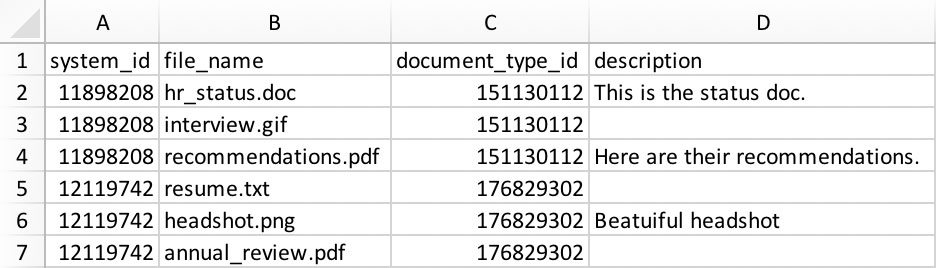
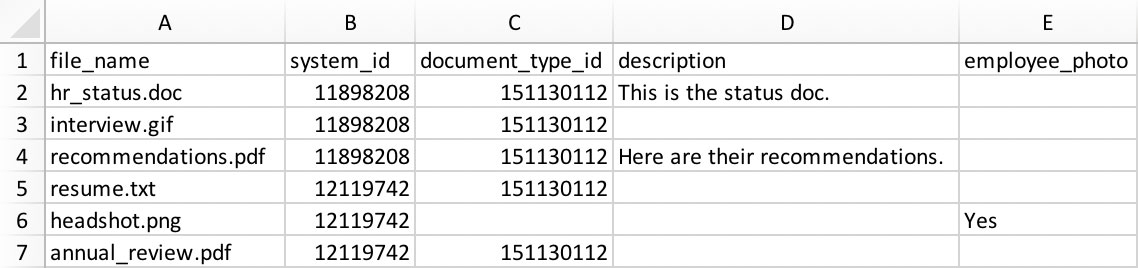
added photo upload feature

diff --git a/app.js b/app.js
@@ -26,7 +26,7 @@ app.post('/upload', upload.fields(fields), function (req, res) {
     // Upload to K-Pay helper func
     async function uploadToKpay(config) {
         console.log('Config', config);
-        const { company, api_key, username, password, type, file, rec_id, document_type, description } = config;
+        const { company, api_key, username, password, type, file, rec_id, document_type, description, employee_photo } = config;
 
         function increaseProgress() {
             progressStorage[hash].filesProcessed += 1;
@@ -64,25 +64,43 @@ app.post('/upload', upload.fields(fields), function (req, res) {
             if (description) docObj.description = description;
             delete config.headers['Api-Key'];
             config.headers['Authentication'] = `Bearer ${tokenObj.token}`;
-            const docRes = await axios.post(`https://secure.saashr.com/ta/rest/v2/companies/|${company}/ids`, docObj, config);
-            // console.log('Document Response', docRes.headers.location);
-            if (docRes.status !== 201) {
-                throw docRes.body;
-                return;
-            }
 
-            const location = docRes.headers.location;
-            const ticketRes = await axios.get(location, config);
-            // console.log('Ticket Response', ticketRes.data);
-            if (ticketRes.status !== 200) {
-                throw file.originalname
-                return;
-            }
+            // If it's an employee photo just upload the photo
+            if (employee_photo.toLowerCase() === 'yes') {
+                const docRes = await axios.get(`https://secure.saashr.com/ta/rest/v2/companies/|${company}/employees/${linked_id}`, config);
+                if (docRes.status !== 200) {
+                    throw docRes.body;
+                    return;
+                }
+                // console.log('Document Response', docRes.data);
+    
+                const ticketUrl = docRes.data.photo_href;
+                const buffer = await fs.readFileAsync(file.path);
+                const uploadRes = await axios.post(ticketUrl, buffer, { headers: { 'Content-Type': file.mimetype } });
+                console.log('Upload Response', uploadRes.status);
 
-            const ticketUrl = ticketRes.data._links.content_rw;
-            const buffer = await fs.readFileAsync(file.path);
-            const uploadRes = await axios.post(ticketUrl, buffer, { headers: { 'Content-Type': file.mimetype } });
-            console.log('Upload Response', uploadRes.status);
+            // Otherwise upload to the document storage
+            } else {
+                const docRes = await axios.post(`https://secure.saashr.com/ta/rest/v2/companies/|${company}/ids`, docObj, config);
+                // console.log('Document Response', docRes.headers.location);
+                if (docRes.status !== 201) {
+                    throw docRes.body;
+                    return;
+                }
+    
+                const location = docRes.headers.location;
+                const ticketRes = await axios.get(location, config);
+                // console.log('Ticket Response', ticketRes.data);
+                if (ticketRes.status !== 200) {
+                    throw file.originalname
+                    return;
+                }
+    
+                const ticketUrl = ticketRes.data._links.content_rw;
+                const buffer = await fs.readFileAsync(file.path);
+                const uploadRes = await axios.post(ticketUrl, buffer, { headers: { 'Content-Type': file.mimetype } });
+                console.log('Upload Response', uploadRes.status);
+            }
 
             // Cleanup file
             fs.unlink(file.path, (err) => {
@@ -119,13 +137,6 @@ app.post('/upload', upload.fields(fields), function (req, res) {
         const result = [];
         const headers = lines[0].split(',');
 
-        // Fix the weird character in front of text issue
-        // let systemIdIndex = -1;
-        // headers.forEach((header, i) => {
-        //     if (header.indexOf('system_id') >= 0) systemIdIndex = i;
-        // });
-        // if (systemIdIndex >= 0) headers[systemIdIndex] = 'system_id';
-
         for (let i = 1; i < lines.length; i++) {
             const obj = {};
             const currentline = lines[i].split(',');
@@ -153,7 +164,6 @@ app.post('/upload', upload.fields(fields), function (req, res) {
     // console.log('Mapping File', mappingFiles);
 
     // Validate mapping file
-    // if (mappingFiles && mappingFiles[0].mimetype !== 'text/csv') {
     if (mappingFiles) {
         const mappingFileName = mappingFiles[0].originalname;
         const extension = mappingFileName.substr(mappingFileName.length - 4);
@@ -204,6 +214,9 @@ app.post('/upload', upload.fields(fields), function (req, res) {
                 const description = rowIndex >= 0 && mappingObj[rowIndex].description ?
                     mappingObj[rowIndex].description :
                     '';
+                const employee_photo = rowIndex >= 0 && mappingObj[rowIndex].employee_photo ?
+                    mappingObj[rowIndex].employee_photo :
+                    '';
 
                 configs.push({
                     company: req.body.company,
@@ -214,6 +227,7 @@ app.post('/upload', upload.fields(fields), function (req, res) {
                     rec_id,
                     document_type,
                     description,
+                    employee_photo,
                     file: fileObj
                 });
             });

diff --git a/public/index.html b/public/index.html
@@ -26,6 +26,10 @@
             transition-timing-function: linear, step-end;
             margin: 0;
         }
+
+        body {
+            line-height: 1.4;
+        }
     </style>
 </head>
 
@@ -46,21 +50,32 @@
                 wish for your files to be attached to a specific record, name the file as the System ID of that record (i.e.
                 "11898208.pdf"). Multiple files are support by holding command/control while selecting files.</p>
             <p class="lead">
-                If you wish to maintain your file names you can include an optional mapping csv file. In this file include a "system_id"
-                and a "file_name" column in your first row. Populate the K-Pay system id for each record you wish to attach
-                a file to under the "system_id" header. Populate the file name for the matching file under the "file_name"
-                column. If you have multiple files going to the same system id simply duplicate the system id on multiple
-                rows. You can acquire the system id by running a report in K-Pay for the record you want to attach documents
-                to and include the System ID column, then export this to excel.
-            </p>
-            <p class="lead">
-                You may also include an optional "document_type_id" and "description" column. If you include the document type column you
-                must fill in the system id for the document type which can be found using the Document Types API. The description
-                can be set to any text you like.
+                You may also upload a mapping file, which allows you to keep your file names the same and include more information about
+                the uploaded files. To include a mapping file follow the instructions below:
+                <ol class="lead">
+                    <li>Download the sample mapping csv file.</li>
+                    <li>Put the name of the file that this line corresponds to in the first column.</li>
+                    <li>Put the System ID of the record you wish to attach the file to in the "system_id" column. You can find
+                        this by adding the System ID or Account ID fields to your record list in K-Pay.</li>
+                    <li>(Optional) Include a "Document Type" in the document information in K-Pay by supplying a Document Type
+                        System ID in the "document_type_id" column. Note, you can find these System IDs by making a request
+                        to the document type API as described in the
+                        <a href="https://secure.saashr.com/ta/docs/rest/index.html#_companies__cid__lookup_document-types" target="_blank">Lookup > Document Types</a> API documentation.</li>
+                    <li>(Optional) Include a description that will be included in the document description in K-Pay.</li>
+                    <li>(Optional) If your file is a photo that you wish to put in the employee photo field put a "Yes" in this
+                        column. Note that if you put a Yes in this column the file will not be stored in the Document Storage
+                        area of the employee but will only be visible in the photo area of the Account Demographics section.
+                        As such the Document Type and Description columns will be ignored.</li>
+                </ol>
             </p>
             <div style="text-align: center;">
-                <img class="logo" width="80%" src="/images/csv_example.jpg" style="text-align: center;">
+                <img class="logo" width="90%" src="/images/csv_example.jpg" style="text-align: center; padding: 10px 0 30px">
+                <br>
+                <a href="/images/mapping.csv" download>
+                    <button type="button" class="btn btn-success" onclick="submitFiles()">Download Sample CSV</button>
+                </a>
             </div>
+
         </div>
         <div class="row marketing">
             <div class="col-lg-12">
